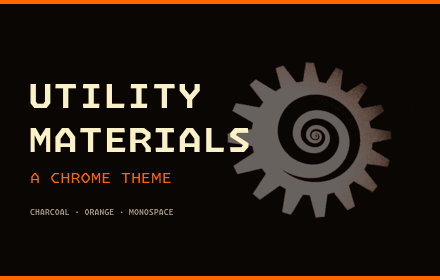
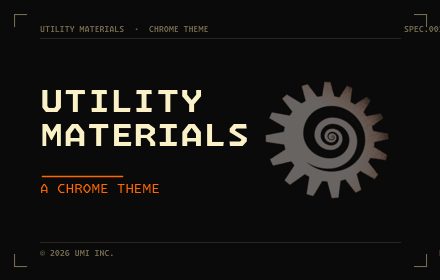
redesign: 1990s spec-sheet aesthetic for promo images
Inspired by NeXT-era technical documentation, Vignelli grid, mid-90s
industrial-engineering catalogs. Disciplined hierarchy replaces the
previous decorative-tile composition.

Design language now applied to all 5 promo images:
- Flat near-black ground (#0a0a0a), restrained orange accent
- L-shaped registration / crop marks at all 4 corners (1px hairline)
- Top metadata strip: "SPEC.001 REV.A 2026.05" identifier
- Bottom colophon: "© 2026 UTILITY MATERIALS INC. · NEW YORK"
- Hairline rules (0.5px) defining "page area"
- Asymmetric left-aligned wordmark, no centered stacking
- Single short orange rule as section divider, not edge framing
- No drop shadows, no gradients, no decorative ornament

Specific moves per image:
- Palette card: tabular palette with № / SWATCH / HEX / ROLE / DESCRIPTION
  columns, gear with leader-line callout (№ 01 BRAND MARK)
- Theme marquee: 4 palette specimens at bottom + gear callout
- NTP marquee: numbered feature manifest (01-06) on left, screenshot
  on right framed by hairline. Reads like a product spec list.
- Tiles: same language scaled down, retain crop marks + metadata strips

Build script: scripts/build-promos.py — Python wrapper around
ImageMagick `magick` calls. Replaces the prior unmaintainable shell
heredoc-style commands. Run with `python3 scripts/build-promos.py`.

diff --git a/scripts/build-promos.py b/scripts/build-promos.py
@@ -1,0 +1,337 @@
+#!/usr/bin/env python3
+"""Build all promo + screenshot images via ImageMagick `magick`.
+
+1990s technical-documentation aesthetic: flat near-black ground, hairline
+rule grid, crop marks at corners, spec-sheet metadata strips, tabular
+palette with numbered callouts, no decorative gradients or shadows.
+"""
+
+import subprocess
+from pathlib import Path
+
+ROOT   = Path(__file__).resolve().parent.parent
+MEDIA  = ROOT / "media"
+DIST   = ROOT / "dist" / "screenshots"
+
+# Fonts (Monaspace Krypton family)
+F_HEAVY = "/usr/share/fonts/OTF/MonaspaceKrypton-WideExtraBold.otf"
+F_BOLD  = "/usr/share/fonts/OTF/MonaspaceKrypton-Bold.otf"
+F_MED   = "/usr/share/fonts/OTF/MonaspaceKrypton-WideMedium.otf"
+F_LABEL = "/usr/share/fonts/OTF/MonaspaceKrypton-SemiBold.otf"
+F_REG   = "/usr/share/fonts/OTF/MonaspaceKrypton-Regular.otf"
+F_MONO  = "/usr/share/fonts/OTF/MonaspaceKrypton-Bold.otf"
+
+GEAR    = Path("/tmp/gear-clean.png")
+SCREEN  = DIST / "final-1.png"
+
+# Palette
+BG     = "#0a0a0a"   # flat industrial black, slightly warmed
+FG     = "#fbf1c7"   # cream / bone
+ORANGE = "#FF6700"
+DIM    = "#766c50"   # warm grey for metadata
+RULE   = "#2a2520"   # very dim hairline
+
+PALETTE = [
+    ("01", "#1a1a1a", "FRAME",   "CHARCOAL · BROWSER FRAME"),
+    ("02", "#2a1c12", "TOOLBAR", "WARM · TOOLBAR + BUTTONS"),
+    ("03", "#FF6700", "STATE",   "PANTONE 165 · ACTIVE STATES"),
+    ("04", "#FF4500", "HOVER",   "BRIGHT · HOVER + LINK"),
+    ("05", "#fbf1c7", "CREAM",   "BONE · PRIMARY FOREGROUND"),
+    ("06", "#d5c4a1", "STEEL",   "WHEAT · SECONDARY TEXT"),
+    ("07", "#a89984", "DIM",     "ASH · TERTIARY · METADATA"),
+]
+
+
+def run(args: list[str]) -> None:
+    subprocess.run(["magick"] + args, check=True)
+
+
+def crop_marks(W: int, H: int, inset: int = 24, arm: int = 22, color: str = DIM) -> list[str]:
+    """L-shaped registration marks at all four corners, hairline."""
+    return [
+        "-strokewidth", "1", "-stroke", color,
+        "-draw", f"line {inset},{inset} {inset},{inset+arm}",
+        "-draw", f"line {inset},{inset} {inset+arm},{inset}",
+        "-draw", f"line {W-inset},{inset} {W-inset},{inset+arm}",
+        "-draw", f"line {W-inset-arm},{inset} {W-inset},{inset}",
+        "-draw", f"line {inset},{H-inset} {inset},{H-inset-arm}",
+        "-draw", f"line {inset},{H-inset} {inset+arm},{H-inset}",
+        "-draw", f"line {W-inset},{H-inset} {W-inset},{H-inset-arm}",
+        "-draw", f"line {W-inset-arm},{H-inset} {W-inset},{H-inset}",
+    ]
+
+
+def hairline(x1: int, y1: int, x2: int, y2: int, color: str = RULE, w: float = 0.5) -> list[str]:
+    return ["-strokewidth", str(w), "-stroke", color,
+            "-draw", f"line {x1},{y1} {x2},{y2}", "-stroke", "none"]
+
+
+def text(x: int, y: int, font: str, size: int, fill: str, content: str,
+         gravity: str = "northwest") -> list[str]:
+    """Add a text annotation at exact pixel offset (gravity northwest)."""
+    return ["-font", font, "-pointsize", str(size), "-fill", fill,
+            "-stroke", "none", "-gravity", gravity, "-annotate",
+            f"{'+' if x >= 0 else ''}{x}{'+' if y >= 0 else ''}{y}", content]
+
+
+def filled_rect(x1: int, y1: int, x2: int, y2: int, fill: str, stroke: str = DIM, w: float = 0.5) -> list[str]:
+    return ["-fill", fill, "-strokewidth", str(w), "-stroke", stroke,
+            "-draw", f"rectangle {x1},{y1} {x2},{y2}",
+            "-fill", "none", "-stroke", "none"]
+
+
+# ─── PALETTE CARD 1280×800 ────────────────────────────────────────────────
+def build_palette_card(out: Path) -> None:
+    W, H = 1280, 800
+    args: list[str] = ["-size", f"{W}x{H}", f"xc:{BG}"]
+
+    args += crop_marks(W, H)
+
+    # top + bottom hairline rules
+    args += hairline(80, 84, W - 80, 84)
+    args += hairline(80, H - 84, W - 80, H - 84)
+
+    # mid-section rules
+    args += hairline(80, 378, W - 80, 378)
+
+    # top metadata strip
+    args += text(80, 62, F_LABEL, 11, DIM, "UTILITY MATERIALS  ·  CHROME THEME")
+    args += text(-80, 62, F_LABEL, 11, DIM, "SPEC.001    REV.A    2026.05", gravity="northeast")
+
+    # bottom colophon
+    args += text(80, H - 50, F_LABEL, 11, DIM, "© 2026 UTILITY MATERIALS INC.")
+    args += text(-80, H - 50, F_LABEL, 11, DIM, "THEMES.UTILITY.MATERIALS.NYC", gravity="northeast")
+    args += text(0, H - 50, F_LABEL, 11, DIM, "NEW YORK", gravity="north")
+
+    # gear (right side, dimmed) with callout
+    if GEAR.exists():
+        args += ["(", str(GEAR), "-resize", "260x260",
+                 "-channel", "A", "-evaluate", "multiply", "0.55", "+channel",
+                 ")", "-gravity", "northwest", "-geometry", "+860+128", "-composite"]
+        # callout leader line + label
+        args += hairline(820, 178, 870, 178, DIM, 0.5)
+        args += text(820, 158, F_LABEL, 9, DIM, "№ 01")
+        args += text(820, 172, F_REG, 9, DIM, "BRAND MARK")
+
+    # wordmark (left, big)
+    args += text(80, 110, F_HEAVY, 96, FG, "UTILITY")
+    args += text(80, 220, F_HEAVY, 96, FG, "MATERIALS")
+
+    # short orange rule above subtitle
+    args += ["-strokewidth", "2", "-stroke", ORANGE,
+             "-draw", "line 82,326 180,326", "-stroke", "none"]
+    args += text(80, 332, F_MED, 18, ORANGE, "A CHROME THEME")
+
+    # palette section header
+    args += text(80, 408, F_LABEL, 11, ORANGE, "02 / COLOR SYSTEM")
+    args += text(280, 408, F_LABEL, 9, DIM, "SEVEN ROLES · IDENTIFIED BY HEX")
+
+    # column headers
+    yh = 446
+    args += text(80,  yh, F_LABEL, 9, DIM, "№")
+    args += text(140, yh, F_LABEL, 9, DIM, "SWATCH")
+    args += text(208, yh, F_LABEL, 9, DIM, "HEX")
+    args += text(312, yh, F_LABEL, 9, DIM, "ROLE")
+    args += text(416, yh, F_LABEL, 9, DIM, "DESCRIPTION")
+    args += hairline(80, yh + 16, W - 80, yh + 16, DIM, 0.5)
+
+    # palette rows
+    for idx, (num, hex_, name, desc) in enumerate(PALETTE):
+        y = 478 + idx * 32
+        args += text(80,  y + 4, F_REG,   11, DIM,   num)
+        args += filled_rect(140, y, 178, y + 22, hex_, DIM, 0.5)
+        args += text(208, y + 4, F_MONO,  11, FG,    hex_)
+        args += text(312, y + 4, F_LABEL, 11, FG,    name)
+        args += text(416, y + 4, F_REG,   10, DIM,   desc)
+        # row separator
+        args += hairline(80, y + 28, W - 80, y + 28, RULE, 0.3)
+
+    args.append(str(out))
+    run(args)
+    print(f"  wrote {out.relative_to(ROOT)}")
+
+
+# ─── THEME TILE 440×280 ───────────────────────────────────────────────────
+def build_theme_tile(out: Path) -> None:
+    W, H = 440, 280
+    args: list[str] = ["-size", f"{W}x{H}", f"xc:{BG}"]
+    args += crop_marks(W, H, inset=14, arm=12)
+
+    # top + bottom hairlines define the "page area"
+    args += hairline(40, 38, W - 40, 38)
+    args += hairline(40, H - 38, W - 40, H - 38)
+
+    # top metadata
+    args += text(40, 26, F_LABEL, 8, DIM, "UTILITY MATERIALS  ·  CHROME THEME")
+    args += text(-40, 26, F_LABEL, 8, DIM, "SPEC.001  REV.A", gravity="northeast")
+
+    # bottom colophon
+    args += text(40, H - 30, F_LABEL, 8, DIM, "© 2026 UMI INC.")
+    args += text(-40, H - 30, F_LABEL, 8, DIM, "NEW YORK", gravity="northeast")
+
+    # gear at right side, smaller, dimmed
+    if GEAR.exists():
+        args += ["(", str(GEAR), "-resize", "150x150",
+                 "-channel", "A", "-evaluate", "multiply", "0.45", "+channel",
+                 ")", "-gravity", "east", "-geometry", "+30+0", "-composite"]
+
+    # wordmark
+    args += text(40, 90, F_HEAVY, 30, FG, "UTILITY")
+    args += text(40, 124, F_HEAVY, 30, FG, "MATERIALS")
+    # short orange rule
+    args += ["-strokewidth", "1.5", "-stroke", ORANGE,
+             "-draw", f"line 42,176 122,176", "-stroke", "none"]
+    args += text(40, 184, F_MED, 11, ORANGE, "A CHROME THEME")
+
+    args.append(str(out))
+    run(args)
+    print(f"  wrote {out.relative_to(ROOT)}")
+
+
+# ─── THEME MARQUEE 1400×560 ───────────────────────────────────────────────
+def build_theme_marquee(out: Path) -> None:
+    W, H = 1400, 560
+    args: list[str] = ["-size", f"{W}x{H}", f"xc:{BG}"]
+    args += crop_marks(W, H, inset=24, arm=22)
+
+    args += hairline(80, 76, W - 80, 76)
+    args += hairline(80, H - 72, W - 80, H - 72)
+
+    args += text(80, 54, F_LABEL, 12, DIM, "UTILITY MATERIALS  ·  CHROME THEME")
+    args += text(-80, 54, F_LABEL, 12, DIM, "SPEC.001    REV.A    2026.05", gravity="northeast")
+
+    args += text(80, H - 56, F_LABEL, 11, DIM, "© 2026 UTILITY MATERIALS INC.")
+    args += text(0, H - 56, F_LABEL, 11, DIM, "NEW YORK", gravity="north")
+    args += text(-80, H - 56, F_LABEL, 11, DIM, "THEMES.UTILITY.MATERIALS.NYC", gravity="northeast")
+
+    if GEAR.exists():
+        args += ["(", str(GEAR), "-resize", "340x340",
+                 "-channel", "A", "-evaluate", "multiply", "0.40", "+channel",
+                 ")", "-gravity", "east", "-geometry", "+90+0", "-composite"]
+        args += hairline(950, 220, 1010, 220, DIM, 0.5)
+        args += text(950, 198, F_LABEL, 10, DIM, "№ 01")
+        args += text(950, 212, F_REG, 10, DIM, "BRAND MARK")
+
+    # wordmark
+    args += text(80, 168, F_HEAVY, 96, FG, "UTILITY MATERIALS")
+    # orange rule
+    args += ["-strokewidth", "2.5", "-stroke", ORANGE,
+             "-draw", "line 82,288 290,288", "-stroke", "none"]
+    args += text(80, 296, F_MED, 22, ORANGE, "A CHROME THEME")
+    args += text(80, 340, F_REG, 12, DIM,
+                 "CHARCOAL FRAME · ORANGE STATE · MONOSPACE-FORWARD TYPE")
+
+    # palette specimens (4 swatches, more compact than the full card)
+    specs = [
+        ("01", "#1a1a1a", "FRAME"),
+        ("02", "#2a1c12", "TOOLBAR"),
+        ("03", "#FF6700", "STATE"),
+        ("04", "#fbf1c7", "CREAM"),
+    ]
+    sx = 80
+    sy = 408
+    for i, (num, hex_, name) in enumerate(specs):
+        x = sx + i * 132
+        args += text(x, sy - 18, F_LABEL, 9, DIM, f"№ {num}")
+        args += filled_rect(x, sy, x + 60, sy + 60, hex_, DIM, 0.5)
+        args += text(x, sy + 70, F_LABEL, 10, FG, name)
+        args += text(x, sy + 86, F_MONO, 9, DIM, hex_)
+
+    args.append(str(out))
+    run(args)
+    print(f"  wrote {out.relative_to(ROOT)}")
+
+
+# ─── NTP TILE 440×280 ─────────────────────────────────────────────────────
+def build_ntp_tile(out: Path) -> None:
+    W, H = 440, 280
+    args: list[str] = ["-size", f"{W}x{H}", f"xc:{BG}"]
+    args += crop_marks(W, H, inset=14, arm=12)
+
+    args += hairline(40, 38, W - 40, 38)
+    args += hairline(40, H - 38, W - 40, H - 38)
+
+    args += text(40, 26, F_LABEL, 8, DIM, "UTILITY MATERIALS  ·  NEW TAB")
+    args += text(-40, 26, F_LABEL, 8, DIM, "v0.4.3", gravity="northeast")
+
+    args += text(40, H - 30, F_LABEL, 8, DIM, "© 2026 UMI INC.")
+    args += text(-40, H - 30, F_LABEL, 8, DIM, "NEW YORK", gravity="northeast")
+
+    # screenshot inset, with hairline border
+    if SCREEN.exists():
+        args += ["(", str(SCREEN), "-resize", "230x",
+                 "-bordercolor", DIM, "-border", "1",
+                 ")", "-gravity", "east", "-geometry", "+24+0", "-composite"]
+
+    args += text(40, 90, F_HEAVY, 24, FG, "UTILITY")
+    args += text(40, 118, F_HEAVY, 24, FG, "MATERIALS")
+    args += ["-strokewidth", "1.5", "-stroke", ORANGE,
+             "-draw", f"line 42,160 100,160", "-stroke", "none"]
+    args += text(40, 168, F_MED, 11, ORANGE, "NEW TAB")
+    args += text(40, 190, F_REG, 9, DIM, "COMMAND CENTER")
+
+    args.append(str(out))
+    run(args)
+    print(f"  wrote {out.relative_to(ROOT)}")
+
+
+# ─── NTP MARQUEE 1400×560 ─────────────────────────────────────────────────
+def build_ntp_marquee(out: Path) -> None:
+    W, H = 1400, 560
+    args: list[str] = ["-size", f"{W}x{H}", f"xc:{BG}"]
+    args += crop_marks(W, H, inset=24, arm=22)
+
+    args += hairline(80, 76, W - 80, 76)
+    args += hairline(80, H - 72, W - 80, H - 72)
+
+    args += text(80, 54, F_LABEL, 12, DIM, "UTILITY MATERIALS  ·  NEW TAB OVERRIDE")
+    args += text(-80, 54, F_LABEL, 12, DIM, "v0.4.3    REV.A    2026.05", gravity="northeast")
+
+    args += text(80, H - 56, F_LABEL, 11, DIM, "© 2026 UTILITY MATERIALS INC.")
+    args += text(0, H - 56, F_LABEL, 11, DIM, "NEW YORK", gravity="north")
+    args += text(-80, H - 56, F_LABEL, 11, DIM, "THEMES.UTILITY.MATERIALS.NYC", gravity="northeast")
+
+    # screenshot on right, with hairline frame
+    if SCREEN.exists():
+        args += ["(", str(SCREEN), "-resize", "780x",
+                 "-bordercolor", DIM, "-border", "1",
+                 ")", "-gravity", "east", "-geometry", "+90+0", "-composite"]
+
+    args += text(80, 138, F_HEAVY, 60, FG, "UTILITY")
+    args += text(80, 200, F_HEAVY, 60, FG, "MATERIALS")
+    args += ["-strokewidth", "2", "-stroke", ORANGE,
+             "-draw", "line 82,278 240,278", "-stroke", "none"]
+    args += text(80, 286, F_MED, 18, ORANGE, "NEW TAB COMMAND CENTER")
+
+    # spec list
+    specs = [
+        "01    ANALOG CHRONOMETER + DIGITAL READOUT",
+        "02    ATMOSPHERIC · OPEN-METEO + IP GEOLOCATION",
+        "03    SOLAR ARC · SUNRISE / SUNSET",
+        "04    LIVE CPU + MEMORY · CHROME.SYSTEM",
+        "05    NETWORK PING + CONNECTION TYPE",
+        "06    SYSTEM STATUS · ONLINE / VIEWPORT / LOCALE",
+    ]
+    for i, line in enumerate(specs):
+        args += text(80, 332 + i * 18, F_REG, 11, DIM, line)
+
+    args.append(str(out))
+    run(args)
+    print(f"  wrote {out.relative_to(ROOT)}")
+
+
+def main() -> None:
+    print("Building 1990s spec-sheet promo images…")
+    MEDIA.mkdir(exist_ok=True)
+    (MEDIA / "screenshots").mkdir(exist_ok=True)
+    (MEDIA / "promo").mkdir(exist_ok=True)
+    build_palette_card(MEDIA / "screenshots" / "theme-palette-1280x800.png")
+    build_theme_tile(MEDIA / "promo" / "theme-tile-440x280.png")
+    build_theme_marquee(MEDIA / "promo" / "theme-marquee-1400x560.png")
+    build_ntp_tile(MEDIA / "promo" / "ntp-tile-440x280.png")
+    build_ntp_marquee(MEDIA / "promo" / "ntp-marquee-1400x560.png")
+    print("Done.")
+
+
+if __name__ == "__main__":
+    main()
